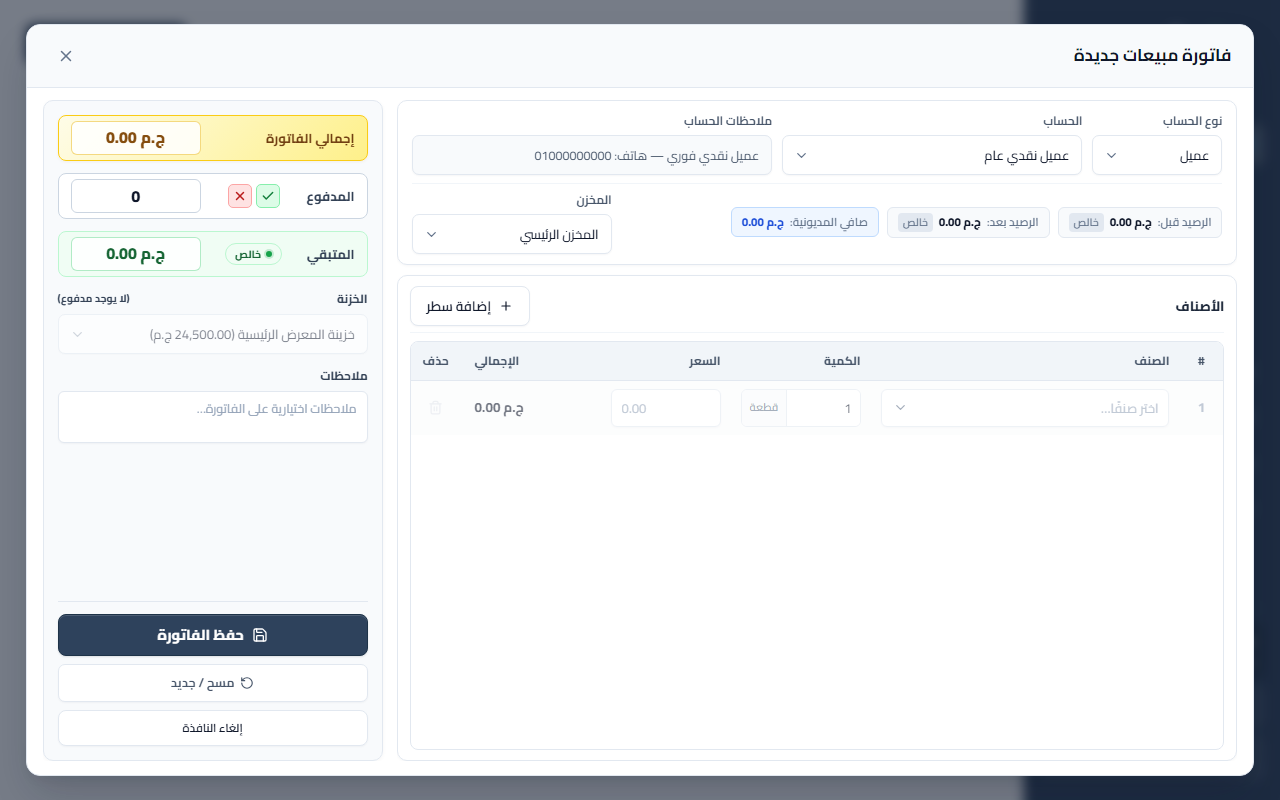
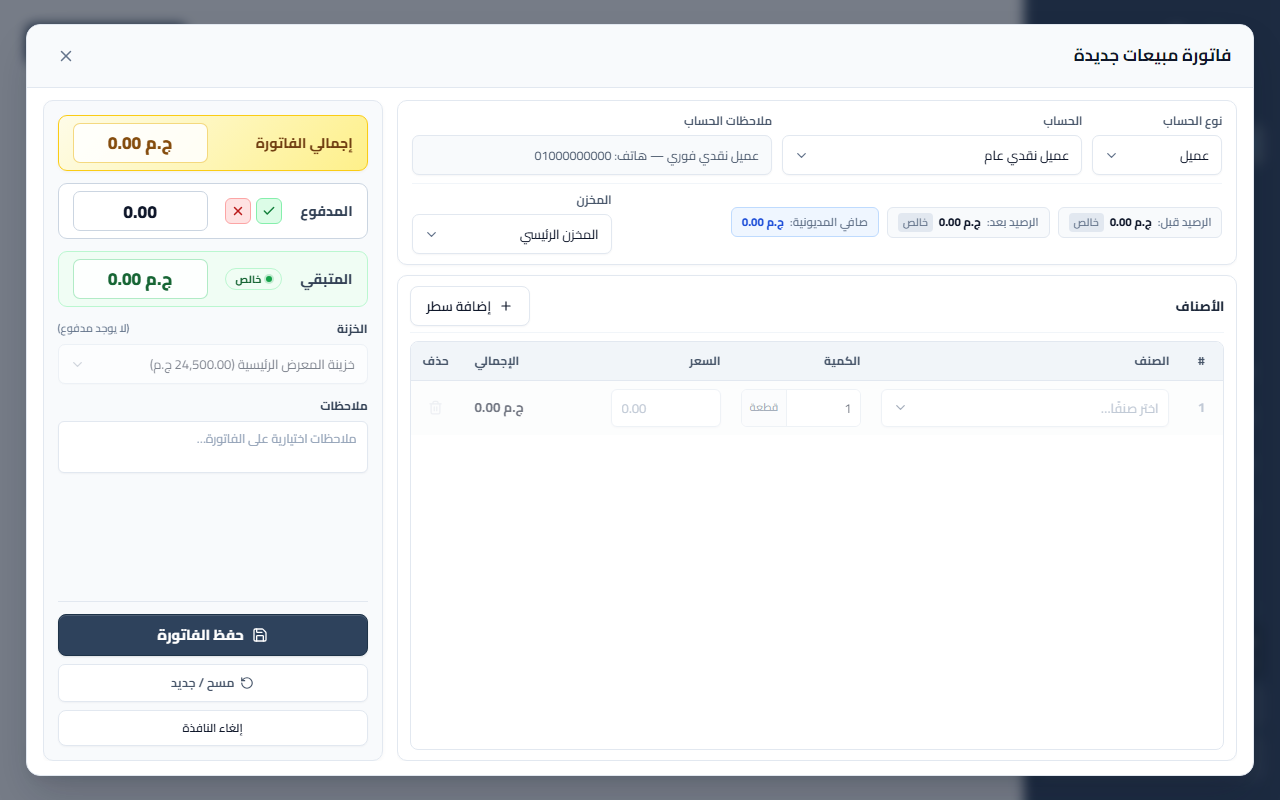
style(invoices): enlarge summary strips, enforce 2 decimals on paid input, and mute no-paid hint

Changed region(s): [[0.0312, 0.125, 0.2812, 0.5625]]

diff --git a/src/components/InvoiceForm.tsx b/src/components/InvoiceForm.tsx
@@ -77,7 +77,7 @@ export default function InvoiceForm({
   const [cashBoxId, setCashBoxId] = useState(
     editing?.invoice.cash_box_id ?? cashBoxes.find((box) => box.is_active)?.id ?? '',
   );
-  const [paid, setPaid] = useState(editing ? String(Number(editing.invoice.paid)) : '0');
+  const [paid, setPaid] = useState(editing ? Number(editing.invoice.paid).toFixed(2) : '0.00');
   const [notes, setNotes] = useState(editing?.invoice.notes ?? '');
   const [lines, setLines] = useState<LineDraft[]>(
     editing ? [...editing.lines, emptyLine()] : [emptyLine()],
@@ -105,7 +105,7 @@ export default function InvoiceForm({
   // السداد الكامل التلقائي للحسابات النقدية عند تغير الإجمالي
   useEffect(() => {
     if (cashAccountSelected && !editing) {
-      setPaid(String(total));
+      setPaid(Number(total).toFixed(2));
     }
   }, [total, cashAccountSelected, editing]);
 
@@ -221,7 +221,7 @@ export default function InvoiceForm({
 
   function handleResetNew() {
     setLines([emptyLine()]);
-    setPaid('0');
+    setPaid('0.00');
     setNotes('');
     if (!editing) {
       setAccountId(defaultAccountId);
@@ -580,7 +580,7 @@ export default function InvoiceForm({
                   <button
                     type="button"
                     className="btn-paid-quick btn-paid-all"
-                    onClick={() => setPaid(String(total))}
+                    onClick={() => setPaid(Number(total).toFixed(2))}
                     title={isReturn ? 'استرداد بالكامل' : 'دفع بالكامل'}
                     aria-label={isReturn ? 'استرداد بالكامل' : 'دفع بالكامل'}
                   >
@@ -589,7 +589,7 @@ export default function InvoiceForm({
                   <button
                     type="button"
                     className="btn-paid-quick btn-paid-zero"
-                    onClick={() => setPaid('0')}
+                    onClick={() => setPaid('0.00')}
                     title="عدم دفع شيء (صفر)"
                     aria-label="عدم دفع شيء (تصفير)"
                   >
@@ -599,15 +599,26 @@ export default function InvoiceForm({
               </div>
               <div className="strip-value-box strip-paid-box">
                 <input
-                  type="number"
+                  type="text"
                   inputMode="decimal"
-                  min="0"
-                  step="0.01"
                   dir="ltr"
                   placeholder="0.00"
                   value={paid}
                   onFocus={(e) => e.target.select()}
-                  onChange={(e) => setPaid(e.target.value)}
+                  onChange={(e) => {
+                    const val = e.target.value;
+                    if (/^\d*\.?\d*$/.test(val)) setPaid(val);
+                  }}
+                  onBlur={() => {
+                    const num = parseFloat(paid);
+                    if (isNaN(num)) {
+                      setPaid('0.00');
+                    } else {
+                      const parts = paid.split('.');
+                      const decimals = parts[1] ? Math.max(2, parts[1].length) : 2;
+                      setPaid(num.toFixed(decimals));
+                    }
+                  }}
                   className="no-spinner num left-paid-input"
                   aria-label={isReturn ? 'المبلغ المسترد' : 'المدفوع'}
                 />
@@ -641,7 +652,7 @@ export default function InvoiceForm({
                 <div style={{ display: 'flex', justifyContent: 'space-between', alignItems: 'center' }}>
                   <span>{isReturn ? 'الخزنة المنصرف منها' : 'الخزنة'}</span>
                   {paidNumber <= 0 && (
-                    <span className="muted-text" style={{ fontSize: '10.5px' }}>
+                    <span className="no-paid-hint">
                       (لا يوجد مدفوع)
                     </span>
                   )}

diff --git a/src/styles/pages/invoice-form.css b/src/styles/pages/invoice-form.css
@@ -1064,41 +1064,41 @@
   overflow-y: auto;
 }
 
-/* 1-Line Strips on Left Part (Symmetric Dimensions) */
+/* 1-Line Strips on Left Part (Symmetric Dimensions - Bigger & Taller) */
 .left-row-strip {
   display: flex;
   align-items: center;
   justify-content: space-between;
   gap: 10px;
-  padding: 0 12px;
-  border-radius: 8px;
+  padding: 0 14px;
+  border-radius: 9px;
   border: 1.5px solid var(--erp-border, #cbd5e1);
   background: #ffffff;
-  height: 46px;
-  min-height: 46px;
-  max-height: 46px;
+  height: 56px;
+  min-height: 56px;
+  max-height: 56px;
   box-sizing: border-box;
 }
 
 .left-row-strip .strip-label {
-  font-size: 13px;
-  font-weight: 700;
+  font-size: 14px;
+  font-weight: 750;
   color: #334155;
   white-space: nowrap;
 }
 
 /* Symmetric container for values across all 3 rows */
 .strip-value-box {
-  width: 130px;
-  min-width: 130px;
-  max-width: 130px;
-  height: 34px;
-  min-height: 34px;
-  max-height: 34px;
+  width: 135px;
+  min-width: 135px;
+  max-width: 135px;
+  height: 40px;
+  min-height: 40px;
+  max-height: 40px;
   display: flex;
   align-items: center;
   justify-content: center;
-  border-radius: 6px;
+  border-radius: 7px;
   box-sizing: border-box;
   background: rgba(255, 255, 255, 0.7);
   border: 1.5px solid rgba(0, 0, 0, 0.1);
@@ -1121,7 +1121,7 @@
 }
 
 .strip-value-total {
-  font-size: 16px;
+  font-size: 17.5px;
   font-weight: 850;
   color: #854d0e;
 }
@@ -1144,17 +1144,17 @@
 .paid-quick-actions {
   display: flex;
   align-items: center;
-  gap: 4px;
+  gap: 5px;
 }
 
 .btn-paid-quick {
   display: inline-flex;
   align-items: center;
   justify-content: center;
-  width: 24px;
-  height: 24px;
+  width: 26px;
+  height: 26px;
   padding: 0;
-  border-radius: 5px;
+  border-radius: 6px;
   border: 1px solid transparent;
   cursor: pointer;
   transition: all 0.15s ease;
@@ -1205,8 +1205,8 @@
   height: 100% !important;
   min-height: 0 !important;
   max-height: 100% !important;
-  font-size: 16px !important;
-  font-weight: 800 !important;
+  font-size: 17.5px !important;
+  font-weight: 850 !important;
   text-align: center;
   padding: 0 8px !important;
   border: none !important;
@@ -1225,8 +1225,8 @@
 }
 
 .strip-value-remaining {
-  font-size: 16px;
-  font-weight: 800;
+  font-size: 17.5px;
+  font-weight: 850;
 }
 
 .left-remaining-strip.is-zero {
@@ -1264,6 +1264,12 @@
   font-size: 12px;
   font-weight: 700;
   color: #334155;
+}
+
+.left-field-box .no-paid-hint {
+  color: #64748b !important;
+  font-size: 11px;
+  font-weight: 500;
 }
 
 .left-notes-textarea {
